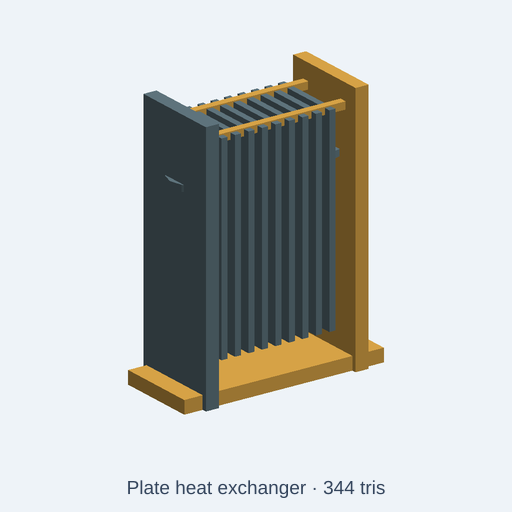
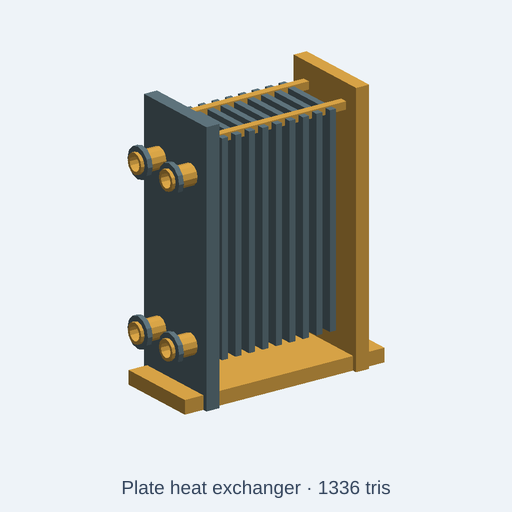
fix(catalog): expose four open heat-exchanger connections

diff --git a/tests/integration/catalog/plateHeatExchangerPorts.test.ts b/tests/integration/catalog/plateHeatExchangerPorts.test.ts
@@ -1,0 +1,99 @@
+// SPDX-License-Identifier: MIT
+// Four connected, open fitting interfaces are a scene-identity requirement.
+// These checks do not establish pressure, thermal or manufacturing acceptance.
+import { readFileSync } from 'node:fs';
+import { resolve } from 'node:path';
+import { NodeIO } from '@gltf-transform/core';
+import { beforeAll, describe, expect, it } from 'vitest';
+import { initOcct } from '../../../src/kernel/backends/occt/occtBackend';
+import { runAndExport } from '../../../src/agent/script-runtime/export';
+
+type V = [number, number, number];
+type Triangle = [V, V, V];
+const root = resolve(import.meta.dirname, '../../..');
+const source = readFileSync(resolve(root, 'catalog/kits/industrial-plant/plate-heat-exchanger.kcad.ts'), 'utf8');
+const centers = [[-55, 130], [55, 130], [-55, 500], [55, 500]];
+
+async function parts(code: string, scale = 1): Promise<Map<string, Triangle[]>> {
+  const result = await runAndExport({ code, fileName: 'plate-heat-exchanger.kcad.ts',
+    scriptDir: resolve(root, 'catalog/kits/industrial-plant'), format: 'glb',
+    options: { format: 'glb', style: 'lowpoly', lowpoly: { maxTriangles: 1400 } } });
+  expect(result.diagnostics.filter(d => d.severity === 'error')).toEqual([]);
+  const doc = await new NodeIO().readBinary(result.bytes);
+  const out = new Map<string, Triangle[]>();
+  for (const node of doc.getRoot().listNodes()) {
+    const mesh = node.getMesh();
+    if (!mesh) continue;
+    const m = node.getWorldMatrix();
+    const triangles: Triangle[] = [];
+    for (const primitive of mesh.listPrimitives()) {
+      const positions = primitive.getAttribute('POSITION')!;
+      const indices = primitive.getIndices();
+      const count = indices?.getCount() ?? positions.getCount();
+      const point = (i: number): V => {
+        const v = positions.getElement(indices?.getScalar(i) ?? i, []);
+        const world = [0, 1, 2].map(k => 1000 / scale *
+          (m[k]! * v[0]! + m[k + 4]! * v[1]! + m[k + 8]! * v[2]! + m[k + 12]!));
+        return [world[0]!, -world[2]!, world[1]!];
+      };
+      for (let i = 0; i < count; i += 3) triangles.push([point(i), point(i + 1), point(i + 2)]);
+    }
+    // A fused fitting can retain several material zones with the same part name.
+    out.set(node.getName(), [...(out.get(node.getName()) ?? []), ...triangles]);
+  }
+  return out;
+}
+
+function xRayHits(triangles: Triangle[], y: number, z: number): boolean {
+  return triangles.some(([a, b, c]) => {
+    const d = (b[2] - c[2]) * (a[1] - c[1]) + (c[1] - b[1]) * (a[2] - c[2]);
+    if (Math.abs(d) < 1e-8) return false;
+    const u = ((b[2] - c[2]) * (y - c[1]) + (c[1] - b[1]) * (z - c[2])) / d;
+    const v = ((c[2] - a[2]) * (y - c[1]) + (a[1] - c[1]) * (z - c[2])) / d;
+    return u >= -1e-6 && v >= -1e-6 && u + v <= 1 + 1e-6;
+  });
+}
+
+function accept(meshes: Map<string, Triangle[]>): void {
+  const ports = [...meshes.keys()].filter(name => /^port-\d+$/.test(name));
+  expect(ports).toHaveLength(4);
+  const plate = meshes.get('fixed-end-plate')!;
+  const plateXs = plate.flat().map(v => v[0]);
+  expect(Math.min(...plateXs)).toBeCloseTo(-200.8, 2);
+  expect(Math.max(...plateXs)).toBeCloseTo(-168.8, 2);
+  for (const [i, [y, z]] of centers.entries()) {
+    const port = meshes.get(`port-${i}`)!;
+    expect(port, `connection ${i} exists`).toBeDefined();
+    const points = port.flat();
+    expect(Math.min(...points.map(v => v[0])), '62 mm outward projection').toBeCloseTo(-262.8, 2);
+    expect(Math.max(...points.map(v => v[0])), 'fitting seats on fixed plate').toBeCloseTo(-200.8, 2);
+    expect((Math.min(...points.map(v => v[1])) + Math.max(...points.map(v => v[1]))) / 2).toBeCloseTo(y, 2);
+    expect((Math.min(...points.map(v => v[2])) + Math.max(...points.map(v => v[2]))) / 2).toBeCloseTo(z, 2);
+    expect(xRayHits(port, y, z), 'fitting bore is open').toBe(false);
+    expect(xRayHits(plate, y, z), 'plate has a matching through bore').toBe(false);
+    expect(xRayHits(port, y, z + 20), 'annular pipe wall remains').toBe(true);
+    expect(xRayHits(plate, y, z + 20), 'plate stock around bore remains').toBe(true);
+  }
+}
+
+beforeAll(async () => { await initOcct(); }, 60_000);
+describe('plate heat exchanger connection geometry', () => {
+  for (const scale of [0.65, 1, 1.35]) {
+    it(`retains four seated, open ports at scale ${scale}`, async () => {
+      const code = source.replace("param('scale', 1,", `param('scale', ${scale},`);
+      accept(await parts(code, scale));
+    }, 60_000);
+  }
+  it('rejects a two-port regression even when the geometry exports', async () => {
+    const code = source.replace('portCenters.entries()', 'portCenters.slice(0, 2).entries()');
+    expect(code).not.toBe(source);
+    const awaitParts = await parts(code);
+    expect(() => accept(awaitParts)).toThrow();
+  }, 60_000);
+  it('rejects capped fittings even when four named parts exist', async () => {
+    const code = source.replaceAll(".hole('top', { u: 0, v: 0, diameter: boreDiameter, depth: 'through' })", '');
+    expect(code).not.toBe(source);
+    const meshes = await parts(code);
+    expect(() => accept(meshes)).toThrow();
+  }, 60_000);
+});

diff --git a/catalog/kits/industrial-plant/plate-heat-exchanger.kcad.ts b/catalog/kits/industrial-plant/plate-heat-exchanger.kcad.ts
@@ -4,7 +4,7 @@ meta({
   name: 'plate-heat-exchanger',
   license: 'CC0-1.0',
   title: 'Plate heat exchanger',
-  description: 'Compact plate heat exchanger with a pack of cooling plates, tie bars and four connection ports. Controls: overall scale, steel, safety paint.',
+  description: 'Compact plate heat exchanger with a pack of cooling plates, tie bars and four open face-mounted connection ports. Illustrative CC0 scene geometry; internal flow, pressure rating and manufacturing details are not verified. Controls: overall scale, steel, safety paint.',
   tags: ['industrial plant', 'factory', 'process equipment', 'low poly', 'CC0'],
   kit: 'industrial-plant',
   category: 'prop',
@@ -21,8 +21,15 @@ presets({
   highVisibility: { safetyPaint: '#f5c640' },
 });
 const p = assembly('plate-heat-exchanger');
+// Four visible circuit connections on the fixed end plate. These nominal
+// dimensions identify the scene prop; they are not a vendor interface.
+const portCenters = [[-55, 130], [55, 130], [-55, 500], [55, 500]];
+const boreDiameter = 34;
+
 p.part('base-frame', box(492.8, 198, 32, true).translate(0, 0, 16).scale(scale).color(safetyPaint));
-p.part('fixed-end-plate', box(32, 220, 620, true).translate(-184.8, 0, 310).scale(scale).color(steel));
+p.part('fixed-end-plate', box(32, 220, 620, true)
+  .holes('left', { positions: portCenters.map(([y, z]) => ({ u: y, v: z - 310 })), diameter: boreDiameter, depth: 'through' })
+  .translate(-184.8, 0, 310).scale(scale).color(steel));
 p.part('movable-end-plate', box(32, 220, 620, true).translate(184.8, 0, 310).scale(scale).color(safetyPaint));
 p.part('heat-plate-0', box(15, 180.4, 483.6, true).translate(-140.8, 0, 334.8).scale(scale).color(steel));
 p.part('heat-plate-1', box(15, 180.4, 483.6, true).translate(-107.6, 0, 334.8).scale(scale).color(steel));
@@ -35,9 +42,16 @@ p.part('heat-plate-7', box(15, 180.4, 483.6, true).translate(91.9, 0, 334.8).sca
 p.part('heat-plate-8', box(15, 180.4, 483.6, true).translate(125.2, 0, 334.8).scale(scale).color(steel));
 p.part('tie-bar-0', box(360.8, 18, 18, true).translate(0, -66, 570.4).scale(scale).color(safetyPaint));
 p.part('tie-bar-1', box(360.8, 18, 18, true).translate(0, 66, 570.4).scale(scale).color(safetyPaint));
-p.part('port-0', cylinder(62, 38, 10).translate(-154, 0, 446.4).scale(scale).color(safetyPaint));
-p.part('port-flange-0', cylinder(16, 58, 10).translate(-154, 0, 452.6).scale(scale).color(steel));
-p.part('port-1', cylinder(62, 38, 10).translate(154, 0, 446.4).scale(scale).color(safetyPaint));
-p.part('port-flange-1', cylinder(16, 58, 10).translate(154, 0, 452.6).scale(scale).color(steel));
+for (const [i, [y, z]] of portCenters.entries()) {
+  const neck = cylinder(62, 24, 10)
+    .hole('top', { u: 0, v: 0, diameter: boreDiameter, depth: 'through' }).color(safetyPaint);
+  const flange = cylinder(12, 36, 10)
+    .hole('top', { u: 0, v: 0, diameter: boreDiameter, depth: 'through' })
+    .translate(0, 0, 42).color(steel);
+  // The neck and flange form one connected fitting. Its axis faces out of
+  // the fixed plate along -X, and its open bore meets a through-hole.
+  p.part(`port-${i}`, neck.union(flange).rotateY(-90)
+    .translate(-200.8, y, z).scale(scale));
+}
 
 return p.model();

diff --git a/artifacts/catalog-demos/plate-heat-exchanger-ports-20261120/before.kcad.ts b/artifacts/catalog-demos/plate-heat-exchanger-ports-20261120/before.kcad.ts
@@ -1,0 +1,43 @@
+// SPDX-License-Identifier: CC0-1.0
+// Compact plate heat exchanger with a pack of cooling plates, tie bars and four connection ports.
+meta({
+  name: 'plate-heat-exchanger',
+  license: 'CC0-1.0',
+  title: 'Plate heat exchanger',
+  description: 'Compact plate heat exchanger with a pack of cooling plates, tie bars and four connection ports. Controls: overall scale, steel, safety paint.',
+  tags: ['industrial plant', 'factory', 'process equipment', 'low poly', 'CC0'],
+  kit: 'industrial-plant',
+  category: 'prop',
+  origin: 'base',
+  compat: ['industrial-plant', 'factory', 'manufacturing', 'industrial-scene'],
+  triangleBudget: 1400
+});
+
+const scale = param('scale', 1, { label: 'Overall scale', min: 0.65, max: 1.35, step: 0.05 });
+const steel = param('steel', '#647b84', { label: 'Structural steel' });
+const safetyPaint = param('safetyPaint', '#e4ad4b', { label: 'Safety paint' });
+presets({
+  weathered: { steel: '#575851', safetyPaint: '#9e722f' },
+  highVisibility: { safetyPaint: '#f5c640' },
+});
+const p = assembly('plate-heat-exchanger');
+p.part('base-frame', box(492.8, 198, 32, true).translate(0, 0, 16).scale(scale).color(safetyPaint));
+p.part('fixed-end-plate', box(32, 220, 620, true).translate(-184.8, 0, 310).scale(scale).color(steel));
+p.part('movable-end-plate', box(32, 220, 620, true).translate(184.8, 0, 310).scale(scale).color(safetyPaint));
+p.part('heat-plate-0', box(15, 180.4, 483.6, true).translate(-140.8, 0, 334.8).scale(scale).color(steel));
+p.part('heat-plate-1', box(15, 180.4, 483.6, true).translate(-107.6, 0, 334.8).scale(scale).color(steel));
+p.part('heat-plate-2', box(15, 180.4, 483.6, true).translate(-74.3, 0, 334.8).scale(scale).color(steel));
+p.part('heat-plate-3', box(15, 180.4, 483.6, true).translate(-41.1, 0, 334.8).scale(scale).color(steel));
+p.part('heat-plate-4', box(15, 180.4, 483.6, true).translate(-7.8, 0, 334.8).scale(scale).color(steel));
+p.part('heat-plate-5', box(15, 180.4, 483.6, true).translate(25.4, 0, 334.8).scale(scale).color(steel));
+p.part('heat-plate-6', box(15, 180.4, 483.6, true).translate(58.7, 0, 334.8).scale(scale).color(steel));
+p.part('heat-plate-7', box(15, 180.4, 483.6, true).translate(91.9, 0, 334.8).scale(scale).color(steel));
+p.part('heat-plate-8', box(15, 180.4, 483.6, true).translate(125.2, 0, 334.8).scale(scale).color(steel));
+p.part('tie-bar-0', box(360.8, 18, 18, true).translate(0, -66, 570.4).scale(scale).color(safetyPaint));
+p.part('tie-bar-1', box(360.8, 18, 18, true).translate(0, 66, 570.4).scale(scale).color(safetyPaint));
+p.part('port-0', cylinder(62, 38, 10).translate(-154, 0, 446.4).scale(scale).color(safetyPaint));
+p.part('port-flange-0', cylinder(16, 58, 10).translate(-154, 0, 452.6).scale(scale).color(steel));
+p.part('port-1', cylinder(62, 38, 10).translate(154, 0, 446.4).scale(scale).color(safetyPaint));
+p.part('port-flange-1', cylinder(16, 58, 10).translate(154, 0, 452.6).scale(scale).color(steel));
+
+return p.model();
